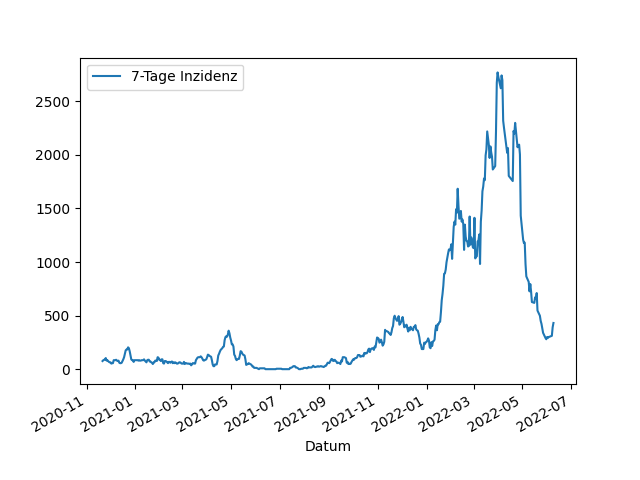
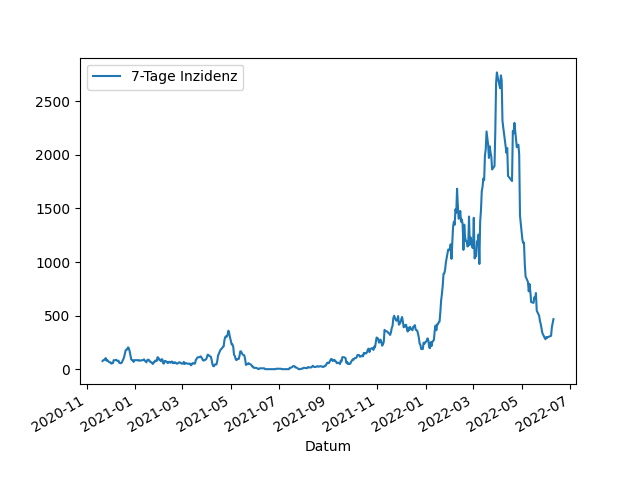
Update images

diff --git a/_includes/aktuelle_inzidenz.md b/_includes/aktuelle_inzidenz.md
@@ -1,1 +1,1 @@
-431,1
+467,0
